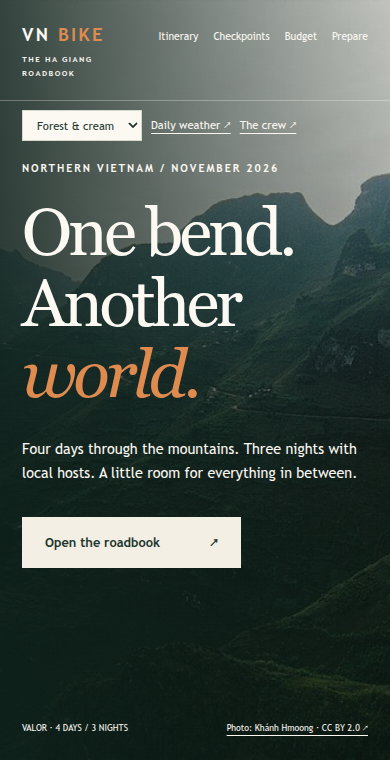
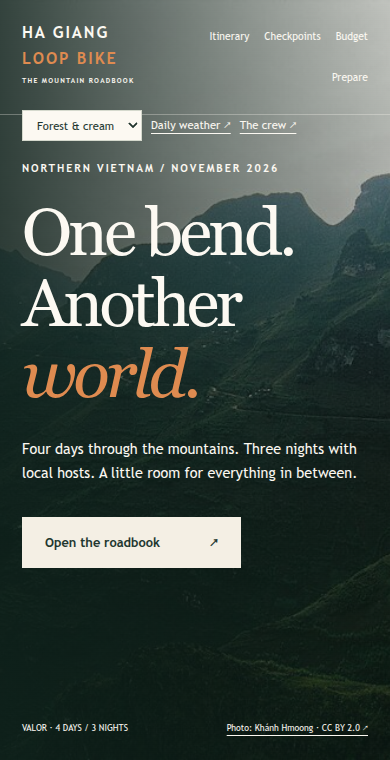
Rename project to Ha Giang Loop Bike

diff --git a/index.html b/index.html
@@ -5,7 +5,10 @@
     <meta name="viewport" content="width=device-width,initial-scale=1">
     <meta name="theme-color" content="#183d35">
     <meta name="description" content="A personal roadbook for Valor’s 4D3N Ha Giang Loop: daily itinerary, checkpoints, maps, budget and packing checklist.">
-    <title>VN BIKE — Ha Giang Roadbook</title>
+    <title>Ha Giang Loop Bike — Group Tour Roadbook</title>
+    <link rel="canonical" href="https://ha-giang-loop-bike.pages.dev/">
+    <meta property="og:title" content="Ha Giang Loop Bike — Group Tour Roadbook">
+    <meta property="og:url" content="https://ha-giang-loop-bike.pages.dev/">
     <link rel="icon" href="assets/favicon.svg" type="image/svg+xml">
     <link rel="stylesheet" href="assets/leaflet.css">
     <link rel="stylesheet" href="https://unpkg.com/maplibre-gl@4.7.1/dist/maplibre-gl.css">
@@ -17,7 +20,7 @@
 </head>
 <body>
     <a class="skip" href="#roadbook">Skip to itinerary</a>
-    <header class="navigation"><a class="brand" href="#">VN <span>BIKE</span><small>THE HA GIANG ROADBOOK</small></a><nav aria-label="Main navigation"><a href="#roadbook">Itinerary</a><a href="#checkpoints">Checkpoints</a><a href="#budget">Budget</a><a href="#prepare">Prepare</a></nav></header>
+    <header class="navigation"><a class="brand" href="#" aria-label="Ha Giang Loop Bike home">HA GIANG <span class="brand-line">LOOP BIKE</span><small>THE MOUNTAIN ROADBOOK</small></a><nav aria-label="Main navigation"><a href="#roadbook">Itinerary</a><a href="#checkpoints">Checkpoints</a><a href="#budget">Budget</a><a href="#prepare">Prepare</a></nav></header>
     <main>
         <div class="appearance wrap"><label for="theme">Roadbook theme</label><select id="theme" data-theme-picker><option value="forest">Forest & cream</option><option value="sunrise">Sunrise & clay</option><option value="night">Night ride</option></select><a href="#daily-weather">Daily weather ↗</a><a href="#crew">The crew ↗</a></div>
         <section class="hero"><img src="assets/ma-pi-leng.jpg" alt="The mountain road at Ma Pi Leng Pass, Ha Giang" fetchpriority="high"><div class="hero-copy"><p class="eyebrow">NORTHERN VIETNAM / NOVEMBER 2026</p><h1>One bend.<br>Another <em>world.</em></h1><p>Four days through the mountains. Three nights with local hosts. A little room for everything in between.</p><a class="button" href="#roadbook">Open the roadbook <span>↗</span></a></div><div class="hero-foot"><span>VALOR · 4 DAYS / 3 NIGHTS</span><a href="https://commons.wikimedia.org/wiki/File:Mountain_road_at_M%C3%A3_P%C3%AD_L%C3%A8ng_Pass,_H%C3%A0_Giang_Province,_Vietnam.jpg" target="_blank" rel="noopener">Photo: Khánh Hmoong · CC BY 2.0 ↗</a></div></section>
@@ -31,7 +34,7 @@
         <section class="crew-section" id="crew"><div class="section wrap"><p class="eyebrow">06 / THE CREW</p><h2>Good company.<br><em>Questionable quotes.</em></h2><p data-crew-note></p><div class="crew-grid" data-members></div><h3>Unassigned joke ideas · not member quotes</h3><div class="quote-grid" data-jokes></div></div></section>
         <section class="section wrap research" id="research"><p class="eyebrow">07 / RESEARCH DESK</p><h2>Start with<br><em>the source.</em></h2><p>Selected package: Valor. Research checked 5 October 2026. This is a group planning guide, not an operator booking site.</p><div data-sources></div></section>
     </main>
-    <footer class="wrap"><a class="brand" href="#">VN BIKE</a><span>A personal Ha Giang roadbook · dates provisional</span><button class="text-button" type="button" data-print>Print / save PDF ↗</button></footer>
+    <footer class="wrap"><a class="brand" href="#">HA GIANG LOOP BIKE</a><span>A group tour roadbook · dates provisional</span><button class="text-button" type="button" data-print>Print / save PDF ↗</button></footer>
     <noscript><p class="wrap">Enable JavaScript to load the itinerary from editable trip data.</p></noscript>
 </body>
 </html>

diff --git a/styles.css b/styles.css
@@ -26,6 +26,7 @@ em { font-weight:400; }
 @media(max-width:700px){.daily-weather-grid{grid-template-columns:repeat(2,minmax(0,1fr))}.appearance{justify-content:flex-start;left:0;top:110px;gap:9px}.appearance label{display:none}.appearance select{max-width:132px}}
 .brand { text-decoration:none; font-size:1.15rem; font-weight:bold; letter-spacing:.12em; }
 .brand span { color:var(--orange); }
+.brand .brand-line { display:block; }
 .brand small { display:block; margin-top:3px; font-size:.5rem; letter-spacing:.18em; }
 .navigation nav { display:flex; flex-wrap:wrap; gap:24px; }
 .navigation nav a { font-size:.73rem; text-decoration:none; padding:8px 0; }
@@ -138,5 +139,7 @@ footer { display:flex; flex-wrap:wrap; align-items:center; justify-content:space
 .crew-section{background:var(--crew-surface)}.crew-grid img{width:100%;aspect-ratio:1;object-fit:cover}.quote-grid blockquote{margin:0;font-family:var(--display);font-size:24px;padding:28px;border-left:2px solid var(--rust)}
 @media(max-width:700px){.ride-grid,.crew-grid,.quote-grid{grid-template-columns:1fr}.gallery-grid{grid-template-columns:repeat(2,minmax(0,1fr))}.gallery-grid img{height:180px}.group-controls{display:block}}
 .navigation,.hero,.day-photo figcaption{color:var(--on-forest)}
+.navigation .brand{flex-shrink:0}
+@media(max-width:620px){.navigation nav{max-width:190px}.navigation .brand{font-size:1rem}.navigation .brand small{font-size:.43rem;max-width:125px}}
 .button{color:var(--ink)}.route-pin span{color:var(--on-forest);border-color:var(--on-forest)}
 @media print{.appearance,.weather-toolbar{display:none}}

diff --git a/README.md b/README.md
@@ -1,4 +1,4 @@
-# VN BIKE — Ha Giang Roadbook
+# Ha Giang Loop Bike — Group Tour Roadbook
 
 A group-tour website for Valor’s 4-day/3-night Ha Giang package, with an eight-day Hanoi arrival/return plan. Dates currently assume **7–14 November 2026**, with the loop **8–11 November**; this is provisional.
 
@@ -26,10 +26,12 @@ Cloudflare Pages: build command `npm run build`, output directory `public`, prod
 
 ```sh
 npm run build
-npx wrangler pages deploy public --project-name vn-bike
+npx wrangler pages deploy public --project-name ha-giang-loop-bike
 ```
 
-GitHub Actions is the deployment owner; do not enable a second Cloudflare Git integration. `.github/workflows/deploy.yml` validates and builds pull requests, then deploys the tested artifact on pushes to `main` or manual dispatch. Production URL: https://vn-bike.pages.dev/. Both deployment secrets are configured and the first deployment succeeded.
+GitHub Actions is the deployment owner; do not enable a second Cloudflare Git integration. `.github/workflows/deploy.yml` validates and builds pull requests, then deploys the tested artifact on pushes to `main` or manual dispatch. Production URL: https://ha-giang-loop-bike.pages.dev/. Repository: https://github.com/kokoye2007/ha-giang-loop-bike. Both deployment secrets remain configured after the repository rename.
+
+The original `vn-bike.pages.dev` site is retained as a legacy snapshot, not the active deployment target. The local checkout directory remains `vn-bike` to avoid disrupting local commands. Existing browser-storage key names remain unchanged for compatibility; preferences cannot transfer automatically between the old and new domains.
 
 Configure repository Actions secrets:
 

diff --git a/reports/rename.md b/reports/rename.md
@@ -1,0 +1,16 @@
+# Ha Giang Loop Bike rename
+
+## Targets
+
+- Display title and editable trip name: Ha Giang Loop Bike.
+- GitHub repository: `kokoye2007/ha-giang-loop-bike`, renamed in place so history, settings and Actions secrets remain attached.
+- Production Pages project and URL: `ha-giang-loop-bike` / https://ha-giang-loop-bike.pages.dev/.
+- Wrangler configuration and GitHub deployment command target the new project.
+
+## Preservation
+
+The old Pages project is retained as a legacy snapshot, not deleted or silently redirected. Historical reports keep their original deployment URLs. The local checkout path remains `/home/kokoye2007/projects/git/ai/vn-bike`; its Git remote points to the renamed repository. Existing browser-storage keys stay unchanged. Preferences/checklists are origin-scoped, so the new domain starts with its own browser state.
+
+## Presentation and verification
+
+The frontend-design skill kept the editorial mountain-roadbook identity while splitting the longer wordmark over two lines. Fonts, three palettes and motion stay unchanged. DFII remains 15 for the established direction. Canonical and Open Graph URLs use the new domain. Data validation and browser checks assert the new title; desktop/mobile screenshots verify navigation fits.
